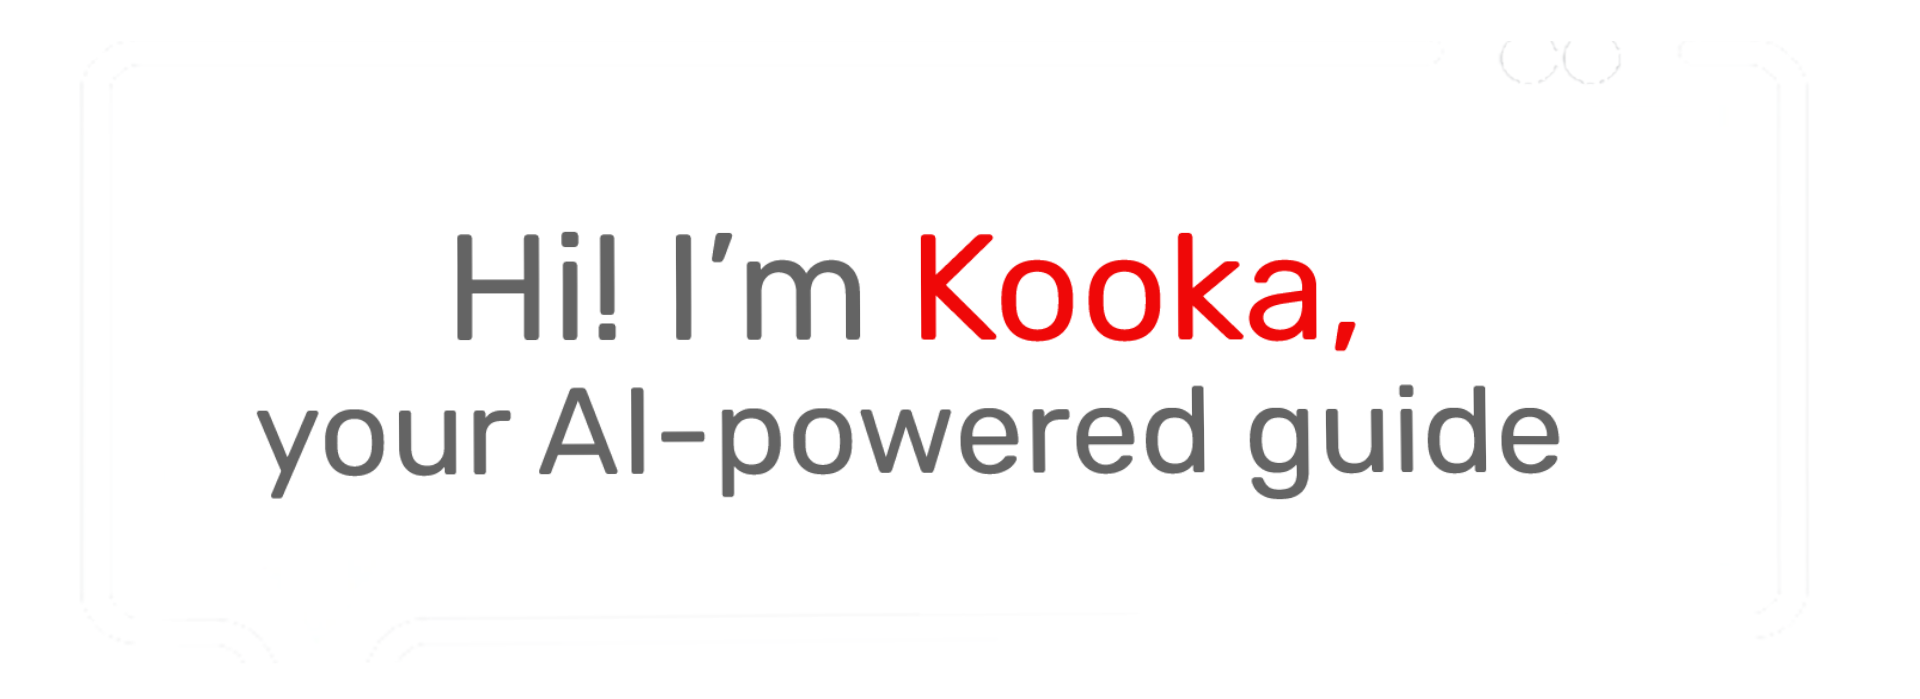
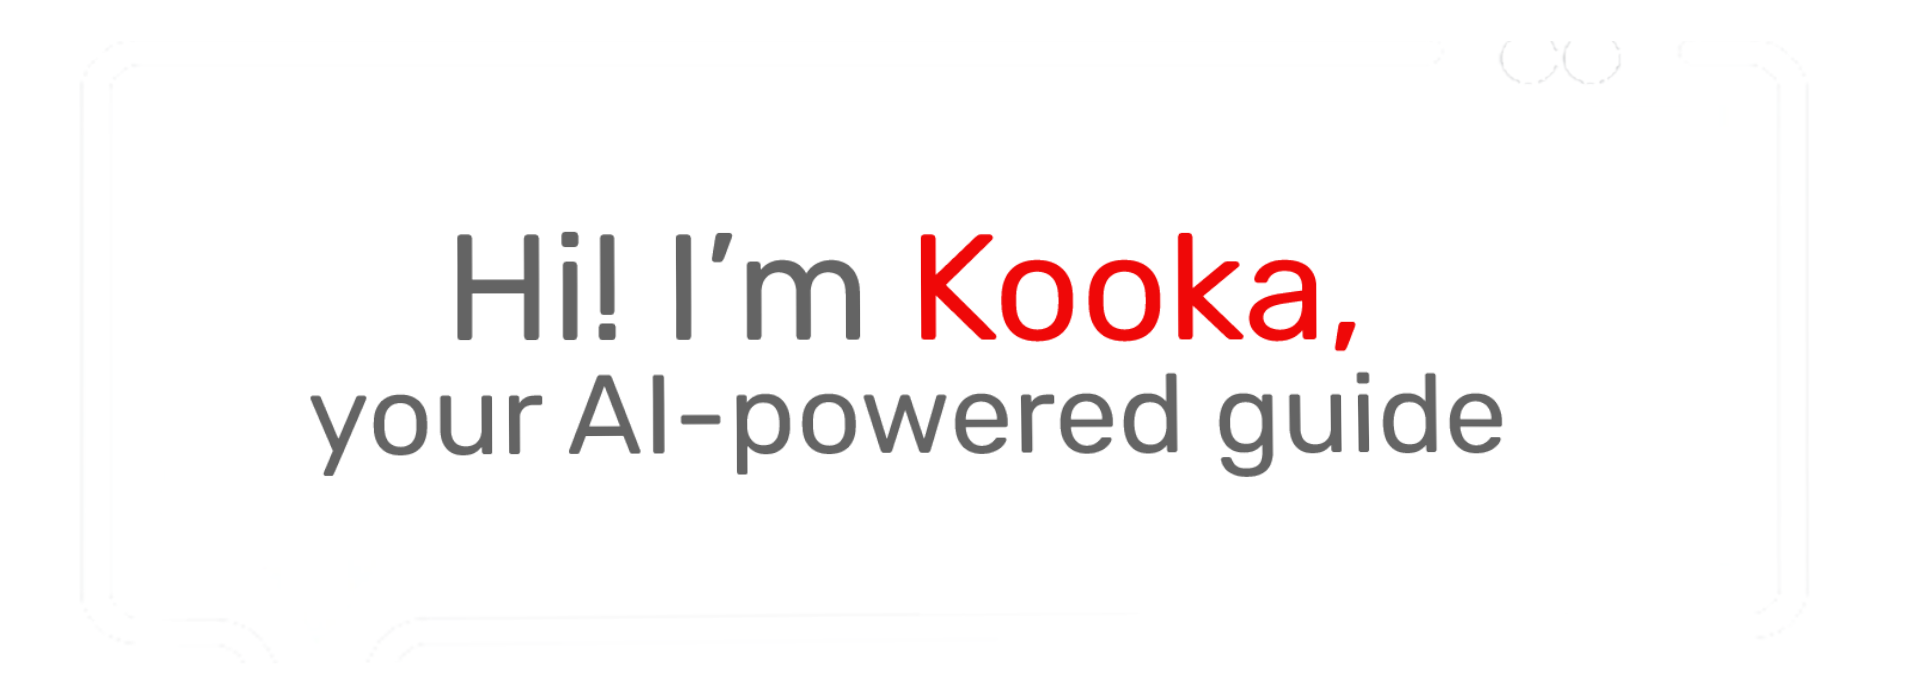
suggested ui changes

Changed region(s): [[0.125, 0.5408, 0.8125, 0.721]]

diff --git a/public/index.html b/public/index.html
@@ -95,14 +95,14 @@
     }
 
     .welcome-screen p {
-      font-size: 14px;
-      margin-bottom: 20px;
-      margin-top: 10px;
+      font-size: 12px;
+      margin-bottom: 10px;
+      
       color: rgb(40, 40, 40);
     }
 
     .welcome-screen button {
-      padding: 10px 80px;
+      /* padding: 10px 80px; */
        
         background: #ff0000;
       color: white;
@@ -225,11 +225,16 @@
 
     <!-- Welcome Screen -->
     <div id="welcomeScreen" class="welcome-screen">
-      <img src="./images/bubble.png" alt="Kooka Ai Assistant" class="avatar floating" style="width: 185px;">
-      <img src="./images/bot_avatar1.gif" alt="Kooka Ai Assistant" class="avatar floating" style="width: 210px;">
+      <img src="./images/bubble.png" alt="Kooka Ai Assistant" class="avatar floating" style="width: 205px;">
+      <img src="./images/bot_avatar1.gif" alt="Kooka Ai Assistant" class="avatar floating" style="width: 185px;">
  
       <p>I can help you with ingredients, recipes, yield tips, or anything food innovation related.</p>
-      <button id="proceedToRoleBtn" style="width: 100%;"> Let's explore</button>
+      <button id="proceedToRoleBtn" style="display: flex; align-items: center; justify-content: center; width: 100%;
+    height: 2rem;"> 
+        <span>Let's explore</span>
+        </button>
+        
+
     </div>
 
     <!-- User Type Selection - Only shown in first interaction -->

diff --git a/public/css/styles.css b/public/css/styles.css
@@ -22,8 +22,8 @@ body {
 
 /* Chat Container */
 .chat-container {
-  width: 350px;
-  height: 530px;
+  width: 330px;
+  height: 480px;
   border-radius: 30px;
   background: linear-gradient(360deg, rgba(255, 255, 255, .65), rgba(255, 255, 255, .35));
   backdrop-filter: blur(12px);
@@ -232,6 +232,7 @@ body {
   box-shadow: 0 1px 2px rgba(0, 0, 0, 0.1);
   position: relative;
   line-height: 1.4;
+  font-size: .85rem;
 }
 
 .message.bot .message-content {
@@ -256,7 +257,7 @@ body {
   opacity: 0.7;
   margin-top: 5px;
   text-align: right;
-  color: white;
+  color: #646464;
 }
 
 /* Chat Input */
